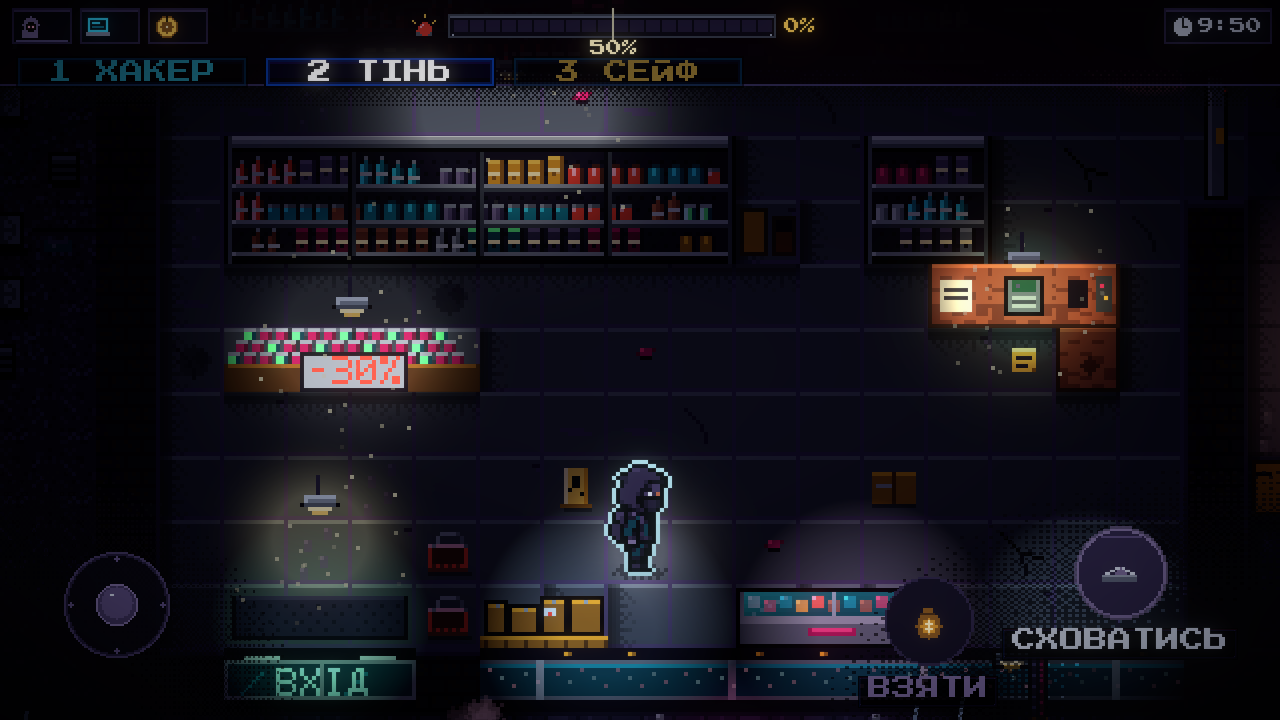
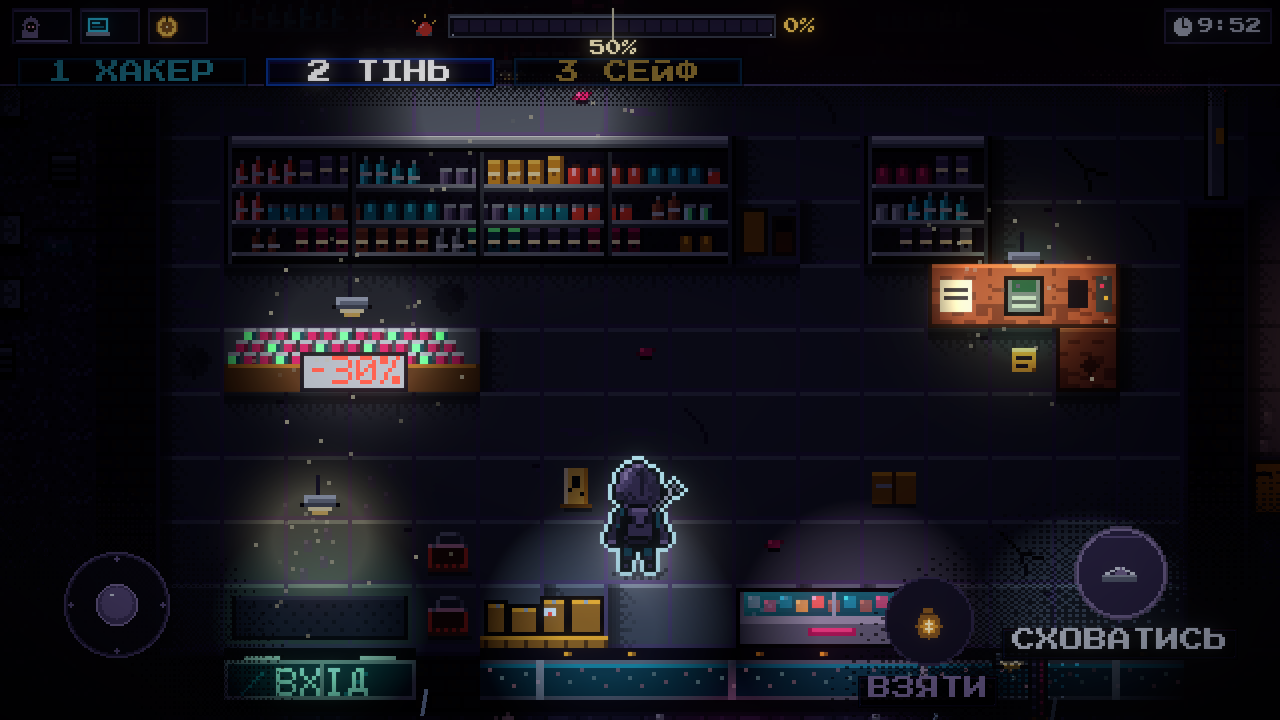
Методика рецензії екрана Тіні: зафіксований набір 5 кадрів (ShadowReviewFrames, docs/levels/review_frames.md), охоронець на маршруті у 2 кадрах, кадр 3 — правий бік залу; рендер «до» без правок арту

Changed region(s): [[0.4688, 0.6417, 0.5312, 0.7944], [0.3438, 0.9778, 0.4062, 1.0]]

diff --git a/Assets/Scripts/Editor/ShadowReviewFrames.cs b/Assets/Scripts/Editor/ShadowReviewFrames.cs
@@ -1,0 +1,126 @@
+using System.Reflection;
+using Banda.Heist;
+using Banda.HeistRuntime;
+using UnityEngine;
+using UnityEngine.Rendering.Universal;
+
+namespace Banda.EditorTools
+{
+    /// <summary>
+    /// Зафіксований тестовий набір кадрів екрана Тіні для рецензій (docs/levels/review_frames.md).
+    /// Позиції Тіні й охоронця задаються в симуляції й одразу у вигляді світу (без згладжування), камера рахується
+    /// звичайним LateUpdate HeistWorldView (винос і межі арту — як у грі). Охоронець видимий лише тоді, коли гра теж
+    /// показала б його Тіні (відстань ≤ ShadowViewRadius). Тривога перед кожним кадром — 0.
+    /// Набір НЕ змінюється між ітераціями: це вимірювальний інструмент, а не підгонка під оцінку.
+    /// Використання (у Play, справа запущена роллю Тіні): ShadowReviewFrames.CaptureAll("Captures/unity/shadow_set").
+    /// </summary>
+    public static class ShadowReviewFrames
+    {
+        public readonly struct Frame
+        {
+            public readonly string Name;
+            public readonly Vec2 Shadow;
+            public readonly float ShadowFacing;
+            public readonly Vec2 Guard;
+            public readonly float GuardFacing;
+            public readonly int GuardTarget;
+
+            public Frame(string name, Vec2 shadow, float shadowFacing, Vec2 guard, float guardFacing, int guardTarget)
+            {
+                Name = name;
+                Shadow = shadow;
+                ShadowFacing = shadowFacing;
+                Guard = guard;
+                GuardFacing = guardFacing;
+                GuardTarget = guardTarget;
+            }
+        }
+
+        private const float North = -Mathf.PI / 2f; // симуляція: Y униз
+        private const float South = Mathf.PI / 2f;
+        private const float East = 0f;
+        private const float West = Mathf.PI;
+
+        /// <summary>
+        /// П'ять кадрів. Маршрут охоронця (HeistLevel.CornerStore): 0 (3,10) → 1 (14,10) → 2 (14,2) → 3 (1,2) → 4 (1,10).
+        /// GuardTarget — індекс точки, до якої він іде (як у симуляції).
+        /// </summary>
+        public static readonly Frame[] Frames =
+        {
+            new Frame("1_start", HeistLevel.Center(8, 12), North, HeistLevel.Center(3, 10), East, 1),
+            new Frame("2_aisle", HeistLevel.Center(5, 5), North, new Vec2(104f, 40f), West, 3),
+            new Frame("3_hall_right", HeistLevel.Center(16, 8), West, new Vec2(232f, 120f), North, 2),
+            new Frame("4_counter", HeistLevel.Center(12, 10), North, new Vec2(24f, 104f), South, 4),
+            new Frame("5_backroom", HeistLevel.Center(22, 2), East, new Vec2(120f, 40f), West, 3),
+        };
+
+        private const BindingFlags Any = BindingFlags.Instance | BindingFlags.NonPublic | BindingFlags.Public;
+
+        public static string CaptureAll(string prefix)
+        {
+            string log = string.Empty;
+            foreach (Frame f in Frames)
+            {
+                log += Capture(f, $"{prefix}_{f.Name}.png") + "\n";
+            }
+
+            return log;
+        }
+
+        public static string Capture(Frame f, string path)
+        {
+            HeistDirector director = HeistDirector.Instance;
+            LocalTransport transport = director != null ? director.Transport as LocalTransport : null;
+            if (transport == null)
+            {
+                return "немає справи (запусти справу роллю Тіні в Play)";
+            }
+
+            HeistSim sim = transport.Session.Sim;
+            System.Type simType = typeof(HeistSim);
+            simType.GetProperty("ShadowPos").SetValue(sim, f.Shadow);
+            simType.GetProperty("GuardPos").SetValue(sim, f.Guard);
+            simType.GetProperty("GuardFacing").SetValue(sim, f.GuardFacing);
+            simType.GetProperty("Alarm").SetValue(sim, 0f);
+            simType.GetField("_guardTarget", Any).SetValue(sim, f.GuardTarget);
+
+            HeistWorldView view = Object.FindFirstObjectByType<HeistWorldView>();
+            System.Type viewType = typeof(HeistWorldView);
+            CharacterSpriteAnimator shadow = (CharacterSpriteAnimator)viewType.GetField("_shadow", Any).GetValue(view);
+            CharacterSpriteAnimator guard = (CharacterSpriteAnimator)viewType.GetField("_guard", Any).GetValue(view);
+            Light2D flashlight = (Light2D)viewType.GetField("_guardFlashlight", Any).GetValue(view);
+
+            Vector3 shadowWorld = HeistWorldView.ToWorld(f.Shadow);
+            shadow.transform.localPosition = shadowWorld;
+            viewType.GetField("_shadowTarget", Any).SetValue(view, shadowWorld);
+            shadow.SetVelocity(Vector3.zero);
+            shadow.Face(f.ShadowFacing);
+
+            bool guardVisible = f.Shadow.DistanceTo(f.Guard) <= HeistSim.ShadowViewRadius;
+            guard.gameObject.SetActive(guardVisible);
+            if (guardVisible)
+            {
+                Vector3 guardWorld = HeistWorldView.ToWorld(f.Guard);
+                guard.transform.localPosition = guardWorld;
+                viewType.GetField("_guardTarget", Any).SetValue(view, guardWorld);
+                guard.SetVelocity(Vector3.zero);
+                guard.Face(f.GuardFacing);
+                flashlight.transform.localRotation = Quaternion.Euler(0f, 0f, -f.GuardFacing * Mathf.Rad2Deg - 90f);
+                Vector2 hand = guard.HandPoint;
+                flashlight.transform.localPosition = new Vector3(hand.x, hand.y, flashlight.transform.localPosition.z);
+            }
+
+            // Камера, сортування й rim — тим самим кодом, що в грі.
+            viewType.GetMethod("LateUpdate", Any).Invoke(view, null);
+            shadow.SendMessage("Update");
+            if (guardVisible)
+            {
+                guard.SendMessage("Update");
+            }
+
+            string result = BandaCapture.Capture(path, 1280, 720);
+            Vector3 cam = Camera.main.transform.position;
+            return $"{f.Name}: {result} | охоронець {(guardVisible ? "видно" : "не видно")} | камера ({cam.x:0.0}, {cam.y:0.0}) | тривога {sim.Alarm:0}";
+        }
+    }
+}

diff --git a/tools/art/review_sheet.py b/tools/art/review_sheet.py
@@ -1,0 +1,21 @@
+"""Телефонні версії (320×180) і аркуш набору кадрів рецензії. Запуск: python -I tools/art/review_sheet.py <prefix> <out_sheet>"""
+import sys
+from PIL import Image
+
+NAMES = ["1_start", "2_aisle", "3_hall_right", "4_counter", "5_backroom"]
+
+
+def main() -> None:
+    prefix, out = sys.argv[1], sys.argv[2]
+    ims = [Image.open(f"{prefix}_{n}.png").convert("RGB") for n in NAMES]
+    for n, im in zip(NAMES, ims):
+        # 1280×720 = 2× від 640×360; «як на телефоні» — 640×360 зменшений до 50% = 320×180.
+        im.resize((320, 180), Image.NEAREST).save(f"{prefix}_{n}_phone_half.png")
+    sheet = Image.new("RGB", (3 * 640, 2 * 360), (10, 10, 16))
+    for i, im in enumerate(ims):
+        sheet.paste(im.resize((640, 360), Image.NEAREST), ((i % 3) * 640, (i // 3) * 360))
+    sheet.save(out)
+
+
+if __name__ == "__main__":
+    main()

diff --git a/docs/levels/review_frames.md b/docs/levels/review_frames.md
@@ -1,0 +1,37 @@
+# Зафіксований набір кадрів для рецензії екрана Тіні
+
+Набір незмінний між ітераціями: це вимірювальний інструмент, а не підгонка під оцінку.
+Зафіксовано у коміті етапу 1 фінального проходу (листопад 2026). Змінювати — лише рішенням Івана, з новою точкою «до».
+
+Відтворення (Unity, Play, справа запущена роллю Тіні, після зникнення повідомлення про мережу ~3 с):
+
+```
+Banda.EditorTools.ShadowReviewFrames.CaptureAll("Captures/unity/shadow_set")
+python -I tools/art/review_sheet.py Captures/unity/shadow_set Captures/unity/shadow_set_sheet.png
+```
+
+Код набору — `Assets/Scripts/Editor/ShadowReviewFrames.cs` (дані нижче продубльовані там).
+
+## Правила
+- Координати — пікселі рівня (Y униз), `Center(x, y)` — центр тайла 16×16.
+- Тінь і охоронець ставляться в симуляції й одразу у світ (без згладжування). Камера, сортування й rim рахуються
+  звичайним `HeistWorldView.LateUpdate` — винос камери 48 px, межі арту як у грі.
+- Охоронець видимий лише тоді, коли гра теж показала б його Тіні: відстань ≤ `ShadowViewRadius` (52 px).
+- Тривога перед кожним кадром — 0%. Тінь не схована, без здобичі.
+- Маршрут охоронця (`HeistLevel.CornerStore`): 0 (3,10) → 1 (14,10) → 2 (14,2) → 3 (1,2) → 4 (1,10).
+
+## Кадри
+
+| # | Назва | Тінь | Погляд Тіні | Охоронець | Погляд / ціль маршруту | Охоронець у кадрі | Камера (світ, з логу) | Тривога |
+|---|---|---|---|---|---|---|---|---|
+| 1 | 1_start — старт | Center(8,12) = (136, 200) | північ | Center(3,10) = (56, 168) | схід / → точка 1 | ні (86 px) | (4136, −152) | 0% |
+| 2 | 2_aisle — прохід між стелажами A і B | Center(5,5) = (88, 88) | північ | (104, 40), ряд 2 біля холодильників | захід / → точка 3 | так (51 px, поза конусом) | (4112, −42) | 0% |
+| 3 | 3_hall_right — правий бік залу, каса | Center(16,8) = (264, 136) | захід | (232, 120), стовпець 14 вище каси | північ / → точка 2 | так (36 px, поза конусом) | (4264, −88) | 0% |
+| 4 | 4_counter — біля каси, лівіше | Center(12,10) = (200, 168) | північ | (24, 104), лівий прохід | південь / → точка 4 | ні | (4200, −120) | 0% |
+| 5 | 5_backroom — підсобка біля сейфа | Center(22,2) = (360, 40) | схід | (120, 40), ряд 2 у залі | захід / → точка 3 | ні | (4304, −42) | 0% |
+
+Кадр 3 замінив попередній «холодильники» (Center(5,2)): той дублював кадр 2, бо камера з виносом упиралась
+у верхню межу арту. Новий кадр 3 — зона, якої немає в інших кадрах.
+
+## Точка «до» фінального проходу
+Рендери набору без правок арту: `Captures/unity/review_before/` (5 кадрів, phone_half, `sheet.png`).
